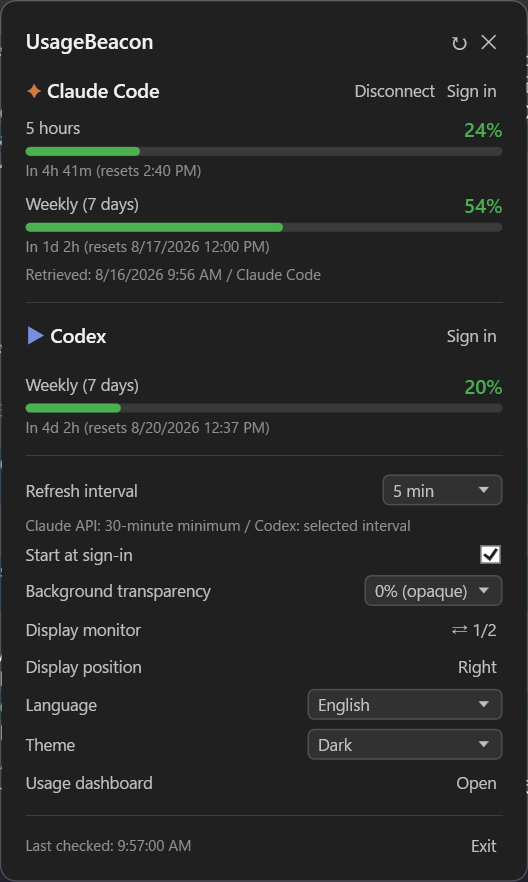
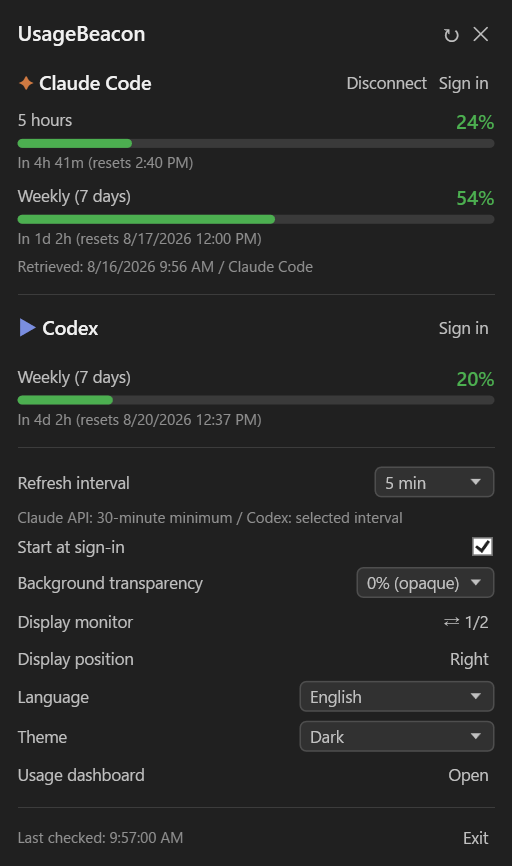
[💄] Trim desktop pixels from the popup screenshot
The capture used the window rectangle reported by GetWindowRect, which
includes the shadow margin. Because the popup has rounded corners, the
corner arcs still held desktop pixels. Crop inside the arc instead.

diff --git a/.memory/STATUS.md b/.memory/STATUS.md
@@ -39,6 +39,10 @@ on 2026-08-16. Retaking them has constraints that are not visible from the files
   bleeds the desktop behind it into the image. Set transparency to 0% while capturing.
 - Window rectangles must be read with the capturing process marked DPI-aware, otherwise the coordinates
   do not match the physical pixels that a screen copy returns.
+- `GetWindowRect` includes the shadow margin and the popup's corners are rounded, so a capture at the
+  reported rectangle keeps desktop pixels in the corner arcs. Crop inside the arc (about 14 px per side
+  for the popup at 150% scaling) rather than to the border stroke; cropping to the stroke leaves
+  visible background at the corners.
 - The taskbar widget exposes the UIA Invoke pattern (D-014), so the popup and dashboard can be opened
   without synthetic mouse input.
 
